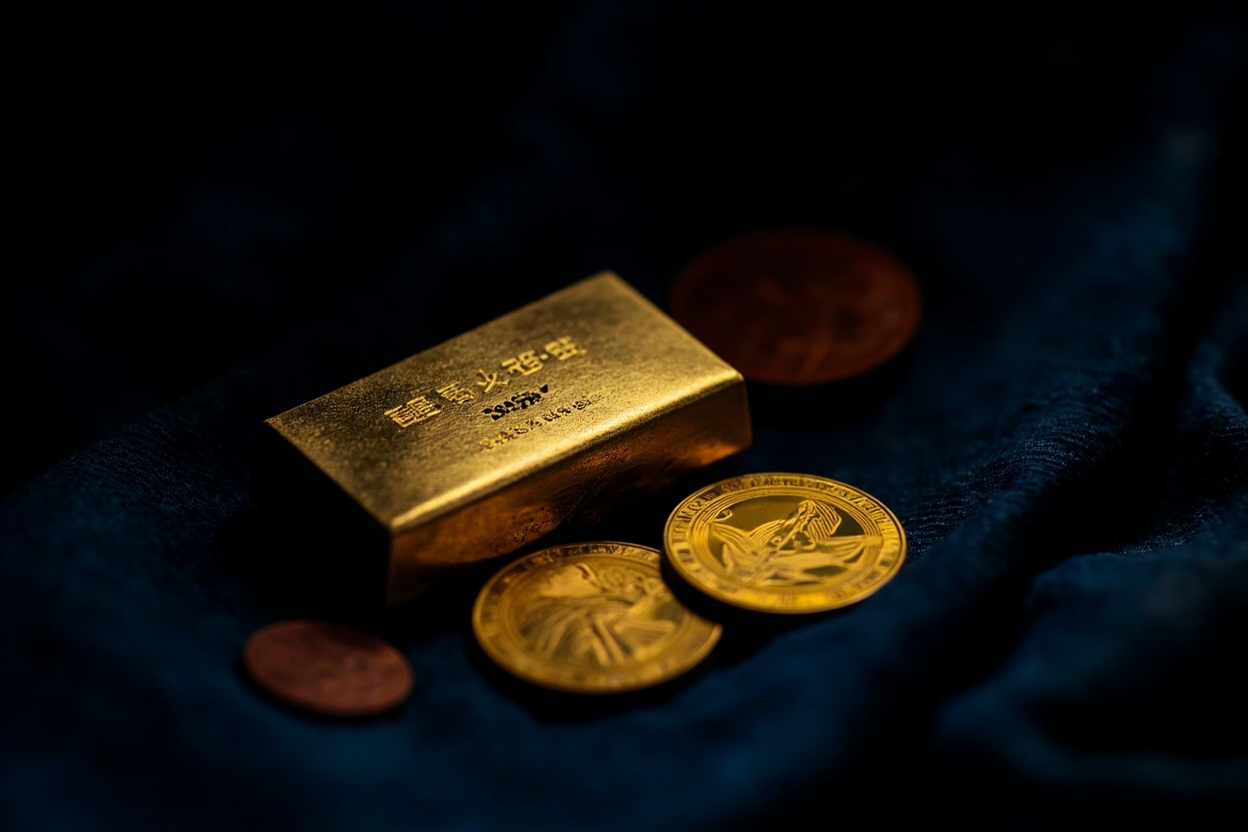
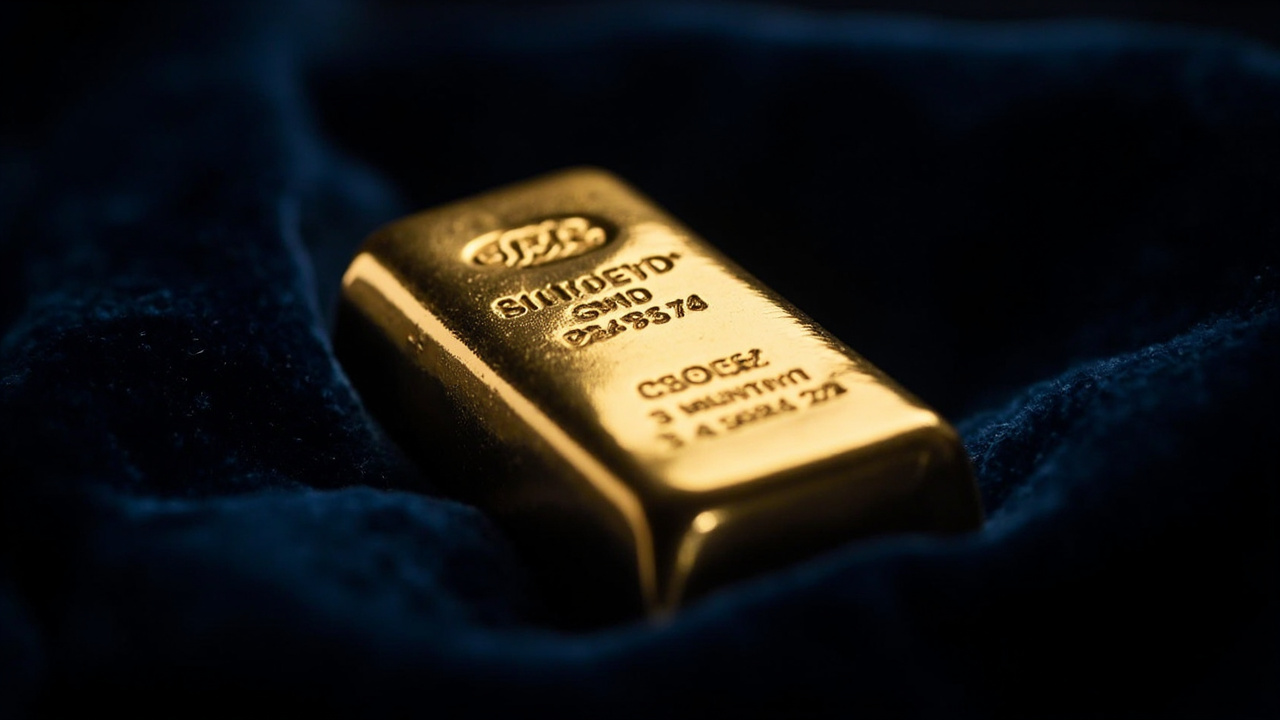
Fix gold article location, add homepage link, regenerate English hero image

diff --git a/content/gold-as-a-store-of-value.html b/content/gold-as-a-store-of-value.html
@@ -1,0 +1,182 @@
+<!DOCTYPE html>
+<html lang="en" data-theme="light">
+<head>
+  <meta charset="UTF-8" />
+  <meta name="viewport" content="width=device-width, initial-scale=1.0" />
+  <link rel="canonical" href="https://www.dependability.us/content/gold-as-a-store-of-value/" />
+  <title>Gold as a Store of Value: What Drives the Price in 2026 | Dependability Holdings</title>
+
+  
+  <meta name="description" content="Free daily S&amp;P 500 forecasts, VIX analysis, and options education for self-directed investors." />
+  
+
+  <meta name="robots" content="index, follow" />
+  <meta property="og:title" content="Gold as a Store of Value: What Drives the Price in 2026" />
+  <meta property="og:type" content="article" />
+  <meta property="og:url" content="https://www.dependability.us/content/gold-as-a-store-of-value/" />
+
+  
+
+  <meta name="google-adsense-account" content="ca-pub-9312870448453345" />
+  <script async src="https://pagead2.googlesyndication.com/pagead/js/adsbygoogle.js?client=ca-pub-9312870448453345" crossorigin="anonymous"></script>
+
+  <link rel="preconnect" href="https://fonts.googleapis.com" />
+  <link rel="preconnect" href="https://fonts.gstatic.com" crossorigin />
+  <link href="https://fonts.googleapis.com/css2?family=Inter:wght@400;500;600;700&family=Playfair+Display:wght@600;700&display=swap" rel="stylesheet" />
+  <link rel="stylesheet" href="/static/css/style.css" />
+
+  
+  <script async src="https://www.googletagmanager.com/gtag/js?id=G-CR7TV6QRSN"></script>
+  <script>
+    window.dataLayer = window.dataLayer || [];
+    function gtag(){dataLayer.push(arguments);}
+    gtag('js', new Date());
+    gtag('config', 'G-CR7TV6QRSN');
+  </script>
+
+  
+</head>
+<body>
+  <header id="site-header">
+    <nav id="site-nav" class="navbar" style="width:100%;background:var(--navy);border-bottom:2px solid var(--gold);">
+  <div style="display:flex;justify-content:space-between;align-items:center;max-width:var(--max-width);margin:0 auto;">
+  <a href="https://www.dependability.us/" class="nav-brand" style="color:var(--white);text-decoration:none;font-family:var(--font-heading);font-size:1.2rem;font-weight:700;letter-spacing:.01em;white-space:nowrap;">
+    Dependability<span style="color:var(--gold);"></span>
+  </a>
+  <button id="mobileMenuBtn" class="mobile-menu-btn" aria-label="Toggle menu">
+    <span></span><span></span><span></span>
+  </button>
+  <div id="navLinks" class="nav-links">
+    <a href="https://www.dependability.us/dependability-forecast/">Forecast</a>
+    <a href="https://www.dependability.us/learn/">Learn</a>
+    <a href="https://www.dependability.us/about/">About</a>
+  </div>
+  </div>
+</nav>
+  </header>
+
+  <main id="main-content">
+    
+
+
+
+<div class="page-main">
+  <div class="container">
+    <header class="hero">
+<div>Education / Macro</div>
+<h1>Gold as a <em>Store of Value</em></h1>
+<p>What drives the price in 2026 — and why it still matters.</p>
+</header>
+<section class="section">
+<div class="content-block">
+<h2>Gold's Long History</h2>
+<p>For centuries, gold was money itself or the foundation of monetary systems, and that legacy still shapes how people think about it today. The modern market changed sharply after the U.S. left the gold standard in 1971, when gold began floating freely and entered a long period of much larger price swings.</p>
+<p>Gold's long-term chart is defined by major regime shifts rather than smooth compounding. It surged in the inflationary 1970s, later pulled back, then reached new highs again in the 2000s and 2010s as investors renewed interest in hard assets during financial stress and policy uncertainty.</p>
+<p>A useful way to think about gold is that it often performs best when trust in paper assets weakens. That can happen during inflation shocks, currency weakness, geopolitical stress, or periods when investors think central banks will keep real interest rates too low for too long.</p>
+</div>
+</section>
+<section class="section">
+<div class="content-block">
+<h2>What Moves Gold Now</h2>
+<p>In the current market, gold is being influenced by a combination of central bank buying, geopolitical tension, dollar weakness, and changing expectations for interest rates. Recent market data also show gold trading near very elevated levels, with the metal hitting an all-time high in January 2026 and remaining far above its level a year earlier.</p>
+<p>One reason gold has attracted so much attention is that it is often treated as a portfolio hedge rather than a pure growth asset. When investors worry about inflation, conflict, or policy mistakes, demand can rise quickly because gold does not depend on a company's profit margins or a government's ability to repay debt.</p>
+<p>Central bank demand has also become an important modern force. Official sector buying can support prices because it removes metal from the market and signals that major institutions still see gold as a reserve asset.</p>
+</div>
+</section>
+<section class="section">
+<h2>Bond Yields and Rates</h2>
+<p>Bond yields matter a great deal, but what usually matters most is not the nominal yield alone; it is the real yield after inflation. Gold tends to do better when real yields fall, because the opportunity cost of holding a non-interest-bearing asset declines.</p>
+<div class="resource-cards">
+<div class="resource-card">
+<div class="resource-category">Real Yields</div>
+<h3>When Real Yields Fall</h3>
+<p>Gold performs best when real yields decline — whether through falling nominal rates, rising inflation expectations, or both. Lower real rates reduce the opportunity cost of holding gold, making the non-interest-bearing metal more attractive relative to bonds and cash.</p>
+</div>
+<div class="resource-card">
+<div class="resource-category">Rate Risk</div>
+<h3>When Real Yields Rise</h3>
+<p>Gold often struggles when interest rates rise aggressively and real yields move higher. Investors can earn more from cash or bonds, so gold becomes less attractive unless some offsetting fear — such as inflation or crisis risk — is strong enough to dominate.</p>
+</div>
+</div>
+<p>A simple example: if a 10-year Treasury yields 4.5% but inflation is running near 3.5%, the real return is modest. If inflation expectations rise faster than yields, gold may gain appeal because fixed-income income streams lose purchasing power in real terms.</p>
+</section>
+<section class="section">
+<h2>Inflation and the Dollar</h2>
+<p>Inflation is one of gold's most famous drivers because it changes how people think about purchasing power. When prices in the broader economy are rising quickly, gold is often bought as a hedge against the erosion of currency value.</p>
+<p>The U.S. dollar also matters because gold is priced globally in dollars. A weaker dollar can support gold by making it cheaper for non-U.S. buyers and by signaling easier financial conditions, while a stronger dollar can weigh on the metal.</p>
+<p>It is worth noting that gold does not always rise simply because inflation is high. If inflation is rising but central banks respond with higher real rates, that can offset the inflation effect and pressure gold lower.</p>
+</section>
+<section class="section">
+<h2>Demand Beyond Investing</h2>
+<p>Gold is not an industrial metal in the same way silver or copper are, so industrial demand is not the dominant price driver. Still, it does have real-world uses in electronics, dentistry, aerospace, and specialized manufacturing, and those uses add a steady baseline of consumption.</p>
+<div class="resource-cards">
+<div class="resource-card">
+<div class="resource-category">Investment</div>
+<h3>Portfolio Allocation</h3>
+<p>Gold is usually included in portfolios for diversification, crisis protection, and inflation defense. It is not a replacement for productive assets, but it can help balance a portfolio that is heavily exposed to equities, credit, or long-duration bonds.</p>
+</div>
+<div class="resource-card">
+<div class="resource-category">Demand Drivers</div>
+<h3>Jewelry and Central Banks</h3>
+<p>The larger demand buckets for gold are usually investment, jewelry, and central bank purchases. Jewelry demand matters especially in countries such as India and China, while investment demand is often the most sensitive to macro news and can move fastest when fear rises.</p>
+</div>
+</div>
+<p>There are several common ways to invest: physical bullion, gold ETFs, futures, mining stocks, and certain retirement accounts that allow precious-metal exposure. Each has different tradeoffs in terms of storage, liquidity, fees, and sensitivity to the underlying gold price versus company-specific risk.</p>
+</section>
+<section class="section">
+<div class="content-block">
+<h2>A Practical View</h2>
+<p>Gold tends to shine when three things happen together: real yields fall, inflation or policy uncertainty rises, and investors start looking for assets outside the traditional financial system. When those conditions fade, gold can go quiet or even weaken despite its reputation as a safe haven.</p>
+<p>The most useful mindset is to treat gold as insurance with a market price. Insurance can be invaluable when the right conditions hit, but it can also lag for long stretches when confidence is high and real yields are attractive.</p>
+<p>For a thoughtful website article, the strongest conclusion is that gold is best understood not as a mysterious metal that "always goes up," but as a barometer of trust in money, policy, and stability. That is why it remains relevant in 2026, even in a market full of newer assets and faster-moving narratives.</p>
+</div>
+</section>
+<section class="section">
+<div class="info-box">
+<h3>Related Research</h3>
+<div>
+<a href="/risk-management/">Risk Management</a>
+<a href="/portfolio-hedging-with-options/">Portfolio Hedging</a>
+<a href="/dependability-forecast/">Market Forecasts</a>
+<a href="/educational-resources/">All Resources</a>
+</div>
+</div>
+</section>
+<section class="section">
+<div class="info-box" style="background:var(--navy);border:1px solid var(--gold);">
+<h3>Ready to Build a Trade?</h3>
+<p>Use <a href="https://optionstrat.com/ventureprise?ref=ventureprise" rel="nofollow" style="color:var(--gold);">OptionsStrat</a> to model gold-focused strategies with real probability data.</p>
+</div>
+</section>
+<div>
+<div>
+<strong>Important Disclaimer — Please Read</strong><br />
+Dependability Holdings LLC is an investment holding company. This webpage is for informational and educational purposes only and does not constitute financial, investment, or legal advice.
+Dependability Holdings LLC is not a registered investment advisor. The information provided herein should not be construed as personalized investment advice, a recommendation to buy, sell, or hold any investment, or an offer or solicitation to buy or sell securities.
+<br /><br />
+All investments involve risk, including the potential loss of principal. The value of investments can fluctuate, and past performance may not be indicative of future results. Please consult with a qualified financial advisor, attorney, or tax professional before making any investment decisions.
+</div>
+</div>
+
+  </div>
+</div>
+
+
+  </main>
+
+  <footer>
+  <a href="https://www.dependability.us/" class="brand">
+    Dependability
+  </a>
+  <p>Options Trading: <a href="https://optionstrat.com/ventureprise?ref=ventureprise" rel="nofollow">OptionsStrat</a></p>
+  <p>&copy; 2026 Dependability. All rights reserved.</p>
+  <p class="disclaimer">
+    Investment involves risk. Past performance is not indicative of future results.
+    This website is for informational purposes only and does not constitute investment advice.
+  </p>
+</footer>
+
+  <script src="/js/main.js"></script>
+  
+</body>
+</html>

diff --git a/index.html b/index.html
@@ -176,6 +176,11 @@
                 <h3><a href="/trading-psychology/" style="color:var(--navy);text-decoration:none;">Trading Psychology</a></h3>
                 <p>Fear, FOMO, discipline — and how professional traders think.</p>
             </div>
+            <div class="resource-card">
+                <span class="resource-category">Macro</span>
+                <h3><a href="/content/gold-as-a-store-of-value/" style="color:var(--navy);text-decoration:none;">Gold as a Store of Value</a></h3>
+                <p>What drives the gold price in 2026 — and why it still matters as a portfolio hedge.</p>
+            </div>
         </div>
 
         <div class="info-grid" style="margin-top:1rem;">

diff --git a/content/learn/_index.md b/content/learn/_index.md
@@ -35,3 +35,4 @@ If you're new to options, start with these foundational concepts:
 
 - **[VIX Regime Guide](/vix-regime-guide/)** — Understanding market fear
 - **[Weekly Market Recap](/weekly-market-recap/)** — This week's market moves
+- **[Gold as a Store of Value](/content/gold-as-a-store-of-value/)** — Macro drivers of the gold price in 2026